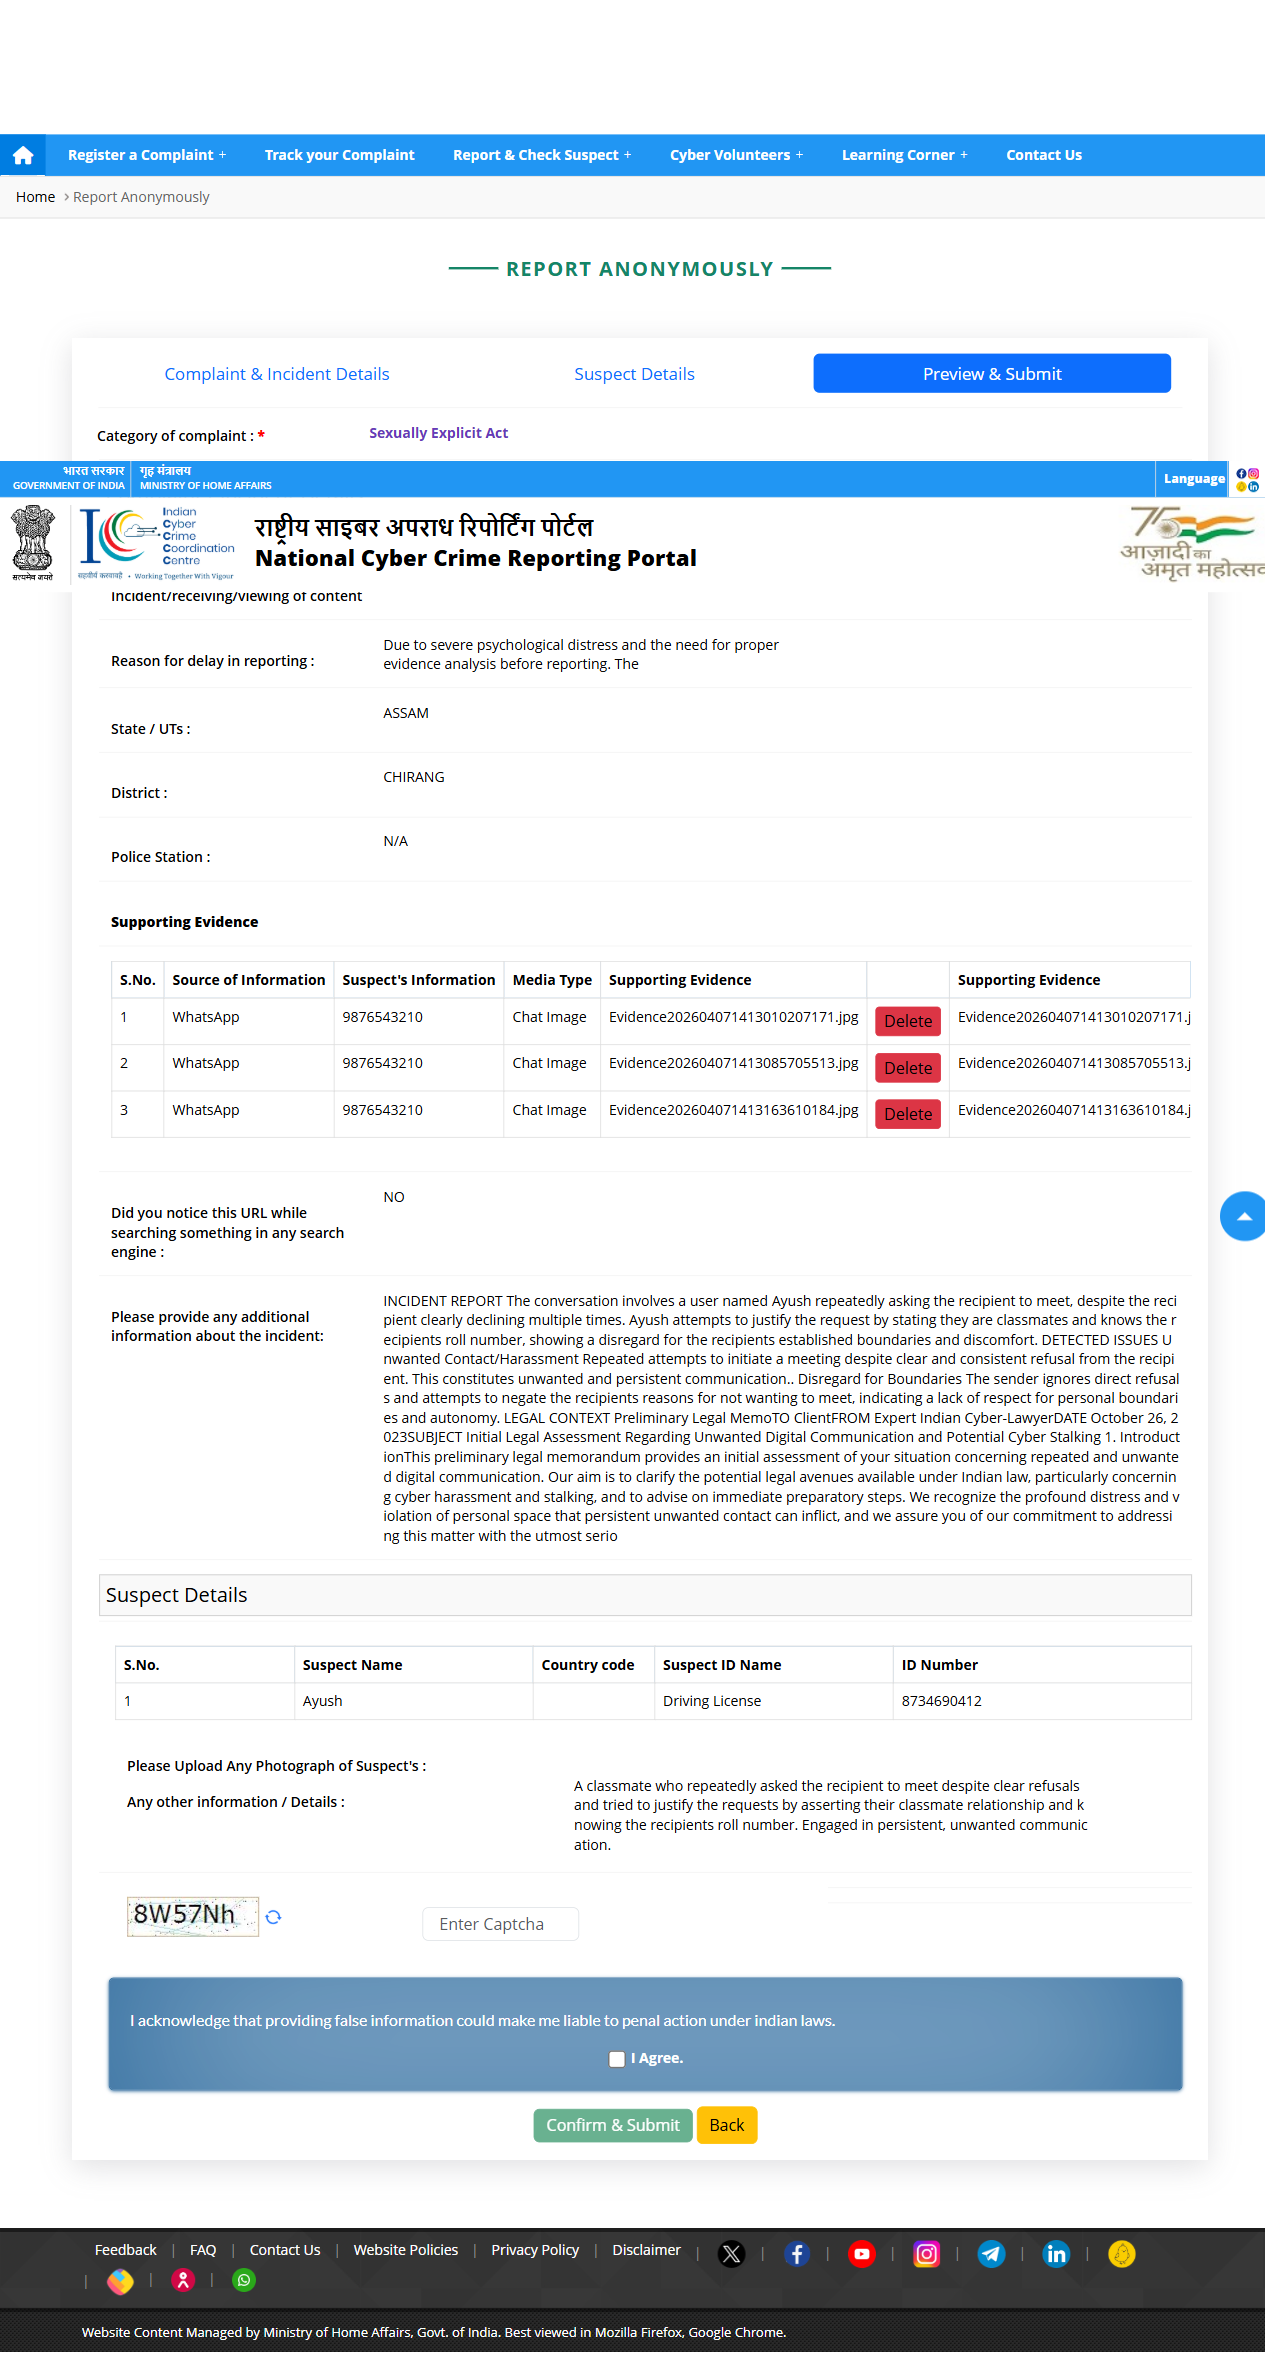
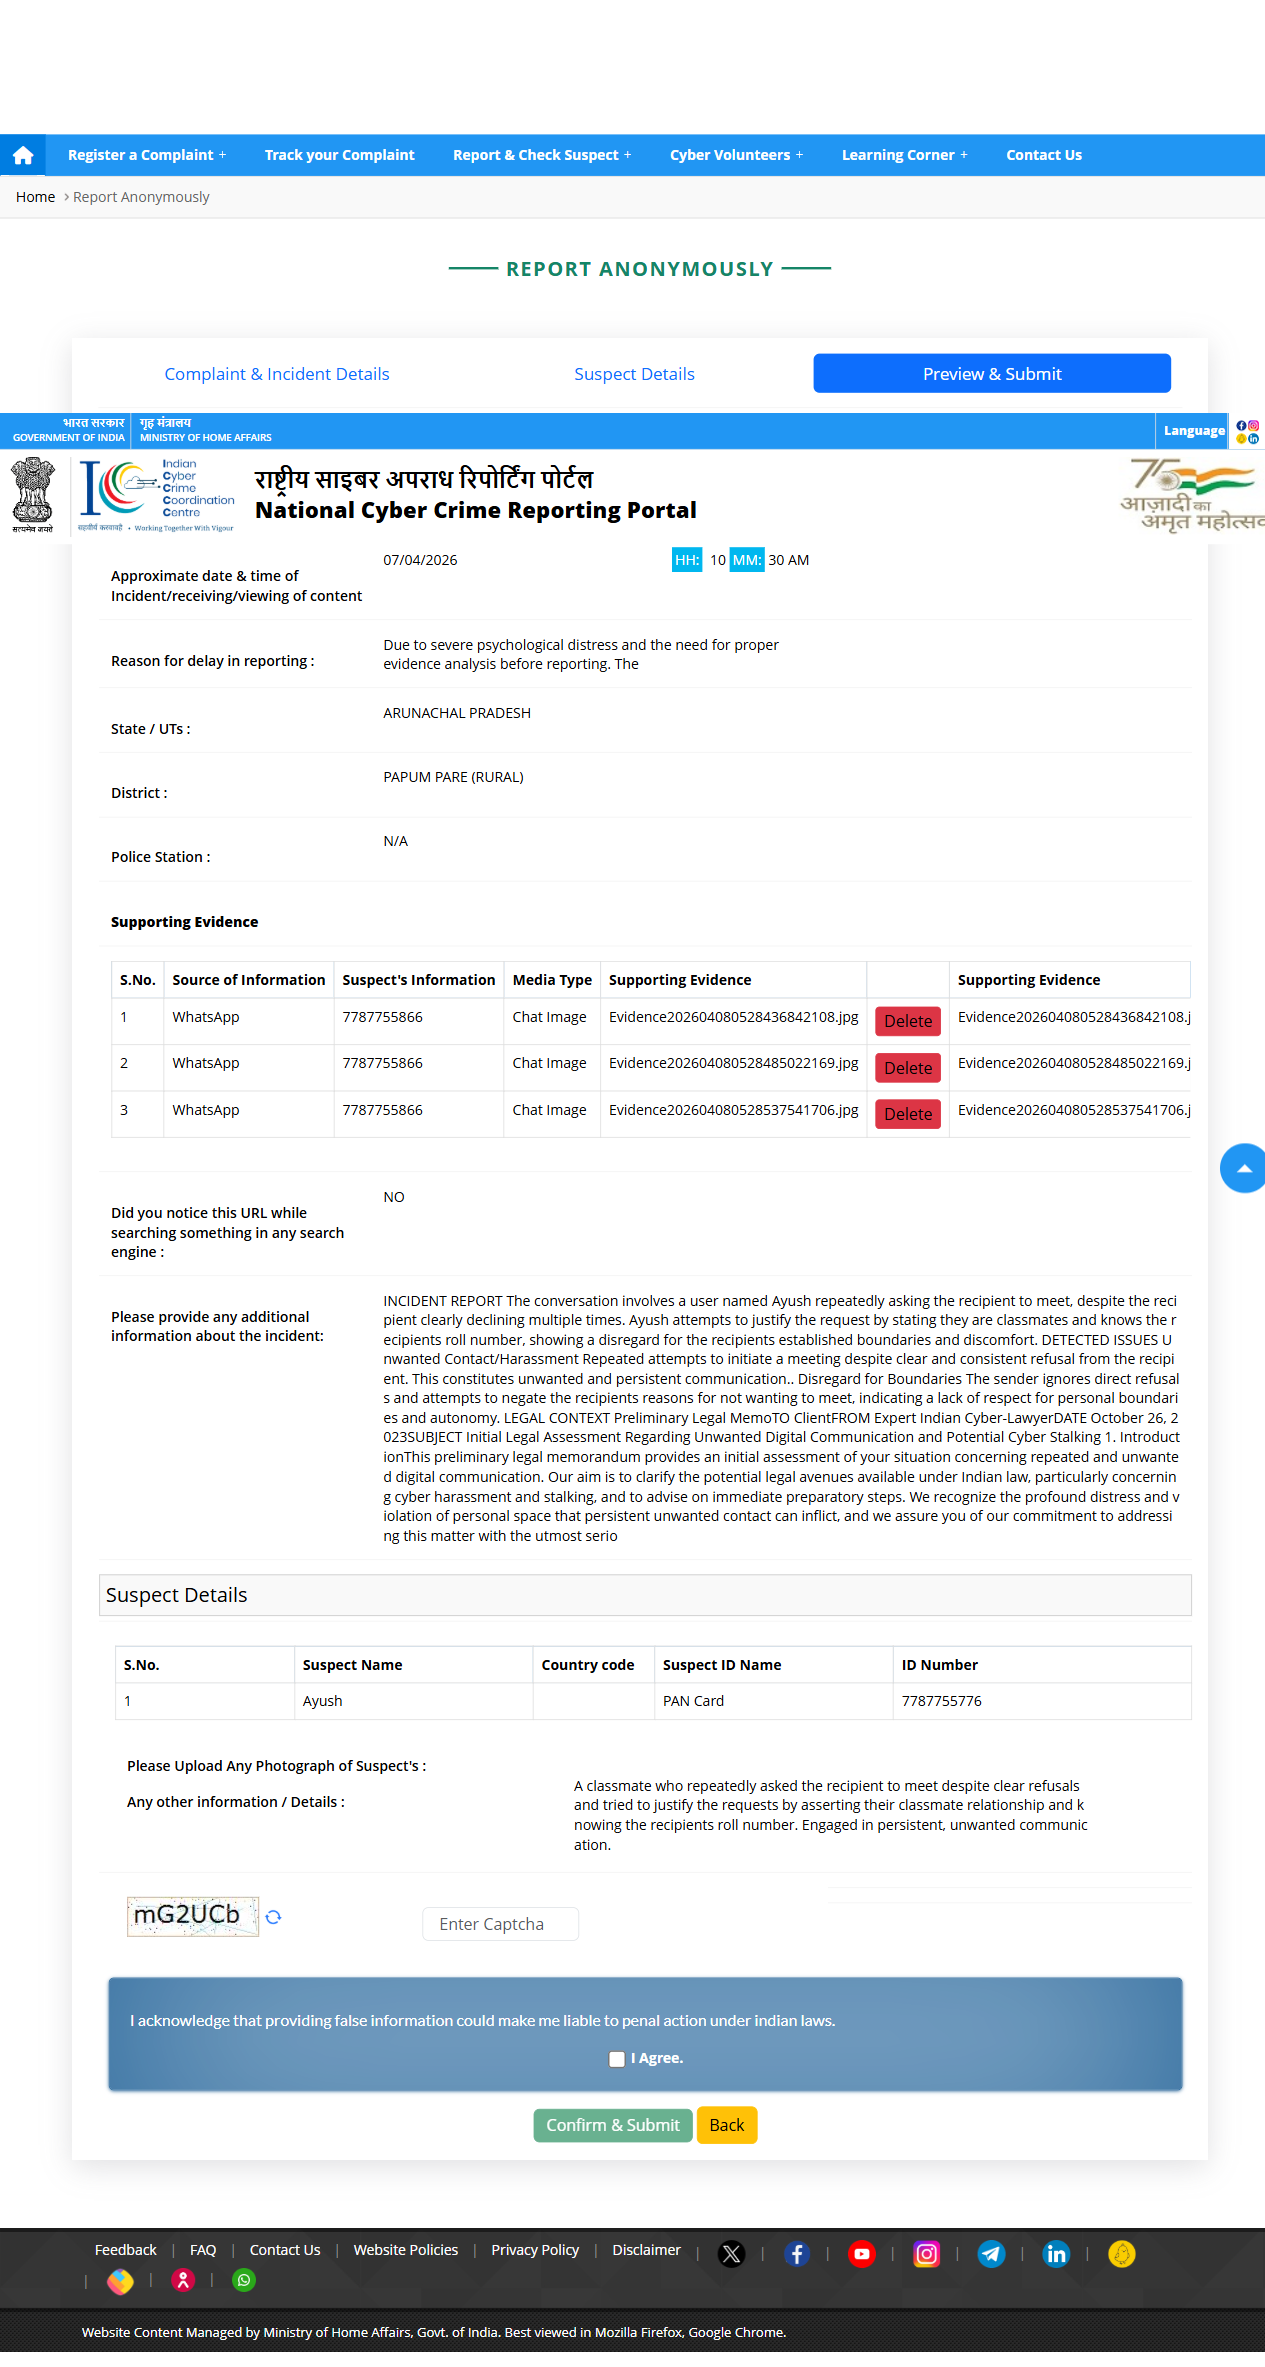
all bot bugs fixed succesfully functionality perfect

diff --git a/src/app/dashboard/analysis/[id]/page.tsx b/src/app/dashboard/analysis/[id]/page.tsx
@@ -107,8 +107,9 @@ export default function AnalysisDetailPage() {
     district: '',
     email: '',
     suspectName: '',
-    suspectContact: '',
+    suspectPlatformContact: '',  // Tab 1: Mobile/Social ID for platform field
     suspectIdType: 'none',
+    suspectIdValue: '',          // Tab 2: Value matching the selected ID type
     incidentDate: '',
     incidentHour: '10',
     incidentMinute: '30',
@@ -504,8 +505,9 @@ export default function AnalysisDetailPage() {
     setDispatchForm(prev => ({
       ...prev,
       suspectName: suspectInfo?.name || prev.suspectName || '',
-      suspectContact: suspectInfo?.identifier_value || prev.suspectContact || '',
+      suspectPlatformContact: rpaData?.platform_url_or_id || prev.suspectPlatformContact || '',
       suspectIdType: suspectInfo?.identifier_type || prev.suspectIdType || 'none',
+      suspectIdValue: suspectInfo?.identifier_value || prev.suspectIdValue || '',
       incidentDate: rpaData?.approximate_date || prev.incidentDate || today,
     }));
     setShowDispatchModal(true);
@@ -571,8 +573,9 @@ export default function AnalysisDetailPage() {
         user_district: dispatchForm.district,
         user_email: dispatchForm.email,
         user_suspect_name: dispatchForm.suspectName,
-        user_suspect_contact: dispatchForm.suspectContact,
+        user_suspect_platform_contact: dispatchForm.suspectPlatformContact,  // Tab 1
         user_suspect_id_type: dispatchForm.suspectIdType,
+        user_suspect_id_value: dispatchForm.suspectIdValue,                  // Tab 2
         user_incident_date: dispatchForm.incidentDate,
         user_incident_hour: dispatchForm.incidentHour,
         user_incident_minute: dispatchForm.incidentMinute,
@@ -1034,6 +1037,22 @@ export default function AnalysisDetailPage() {
 
             <div className={styles.modalDivider} />
 
+            {/* Field 1: Platform contact — used in Tab 1 for the incident platform field */}
+            <div className={styles.modalFieldGroup}>
+              <label className={styles.modalLabel}>
+                <Phone size={14} />
+                Suspect Mobile / Social Media ID
+              </label>
+              <input
+                type="text"
+                className={styles.modalInput}
+                placeholder="WhatsApp number, Instagram handle, profile URL etc."
+                value={dispatchForm.suspectPlatformContact}
+                onChange={(e) => setDispatchForm(prev => ({ ...prev, suspectPlatformContact: e.target.value }))}
+              />
+              <span style={{ fontSize: '0.7rem', color: 'var(--text-muted)', marginTop: '4px' }}>Used in Tab 1 — incident platform contact field</span>
+            </div>
+
             <div className={styles.modalFieldGroup}>
               <label className={styles.modalLabel}>
                 <User size={14} />
@@ -1064,19 +1083,20 @@ export default function AnalysisDetailPage() {
               </select>
             </div>
 
-            {/* FIX 4: Renamed field — value passed as suspect_id_value in API payload */}
+            {/* Field 2: Suspect ID value — used in Tab 2 for the suspect identification */}
             <div className={styles.modalFieldGroup}>
               <label className={styles.modalLabel}>
                 <Phone size={14} />
-                Suspect Mobile No. / Social Media ID / PAN No.
+                Suspect ID No.
               </label>
               <input
                 type="text"
                 className={styles.modalInput}
                 placeholder="Enter the value matching your selected ID type"
-                value={dispatchForm.suspectContact}
-                onChange={(e) => setDispatchForm(prev => ({ ...prev, suspectContact: e.target.value }))}
+                value={dispatchForm.suspectIdValue}
+                onChange={(e) => setDispatchForm(prev => ({ ...prev, suspectIdValue: e.target.value }))}
               />
+              <span style={{ fontSize: '0.7rem', color: 'var(--text-muted)', marginTop: '4px' }}>Used in Tab 2 — suspect identification details</span>
             </div>
 
             {analysis?.details?.rpa_filing_data?.platform && (

diff --git a/src/app/api/dispatch/route.ts b/src/app/api/dispatch/route.ts
@@ -91,8 +91,9 @@ interface DispatchRequestBody {
   user_district: string;
   user_email: string;
   user_suspect_name: string;
-  user_suspect_contact: string;
+  user_suspect_platform_contact: string;  // Tab 1: Mobile/Social ID for platform field
   user_suspect_id_type: string;
+  user_suspect_id_value: string;          // Tab 2: Value matching the selected ID type
   user_incident_date?: string;
   user_incident_hour?: string;
   user_incident_minute?: string;
@@ -190,7 +191,8 @@ export async function POST(request: NextRequest) {
     // Suspect info: prefer user-provided, fallback to AI-extracted
     const suspectName = body.user_suspect_name || suspectInfo?.name || 'Unknown Online Perpetrator';
     const suspectIdType = body.user_suspect_id_type || suspectInfo?.identifier_type || 'none';
-    const suspectIdValue = body.user_suspect_contact || suspectInfo?.identifier_value || '';
+    const suspectIdValue = body.user_suspect_id_value || suspectInfo?.identifier_value || '';
+    const suspectPlatformContact = body.user_suspect_platform_contact || rpaData?.platform_url_or_id || '';
     const suspectIdTypeIndex = SUSPECT_ID_TYPE_MAP[suspectIdType] || 0;
     // FIX 1/2: Pass human-readable label for portal matching
     const suspectIdTypeLabel = SUSPECT_ID_TYPE_LABELS[suspectIdType] || suspectIdType || 'Not Available';
@@ -223,9 +225,10 @@ export async function POST(request: NextRequest) {
       additional_info: additionalInfo,
       evidence_paths: evidencePaths, // New array of paths
       suspect_name: suspectName,
+      suspect_platform_contact: suspectPlatformContact,  // Tab 1: for #ContentPlaceHolder1_txt_Info
       suspect_id_type_index: suspectIdTypeIndex,
-      suspect_id_type_label: suspectIdTypeLabel,  // FIX 1/2: label for portal matching
-      suspect_id_value: suspectIdValue,
+      suspect_id_type_label: suspectIdTypeLabel,
+      suspect_id_value: suspectIdValue,                   // Tab 2: for suspect ID field
       suspect_description: suspectDescription,
       risk_level: analysis.risk_level,
     };
